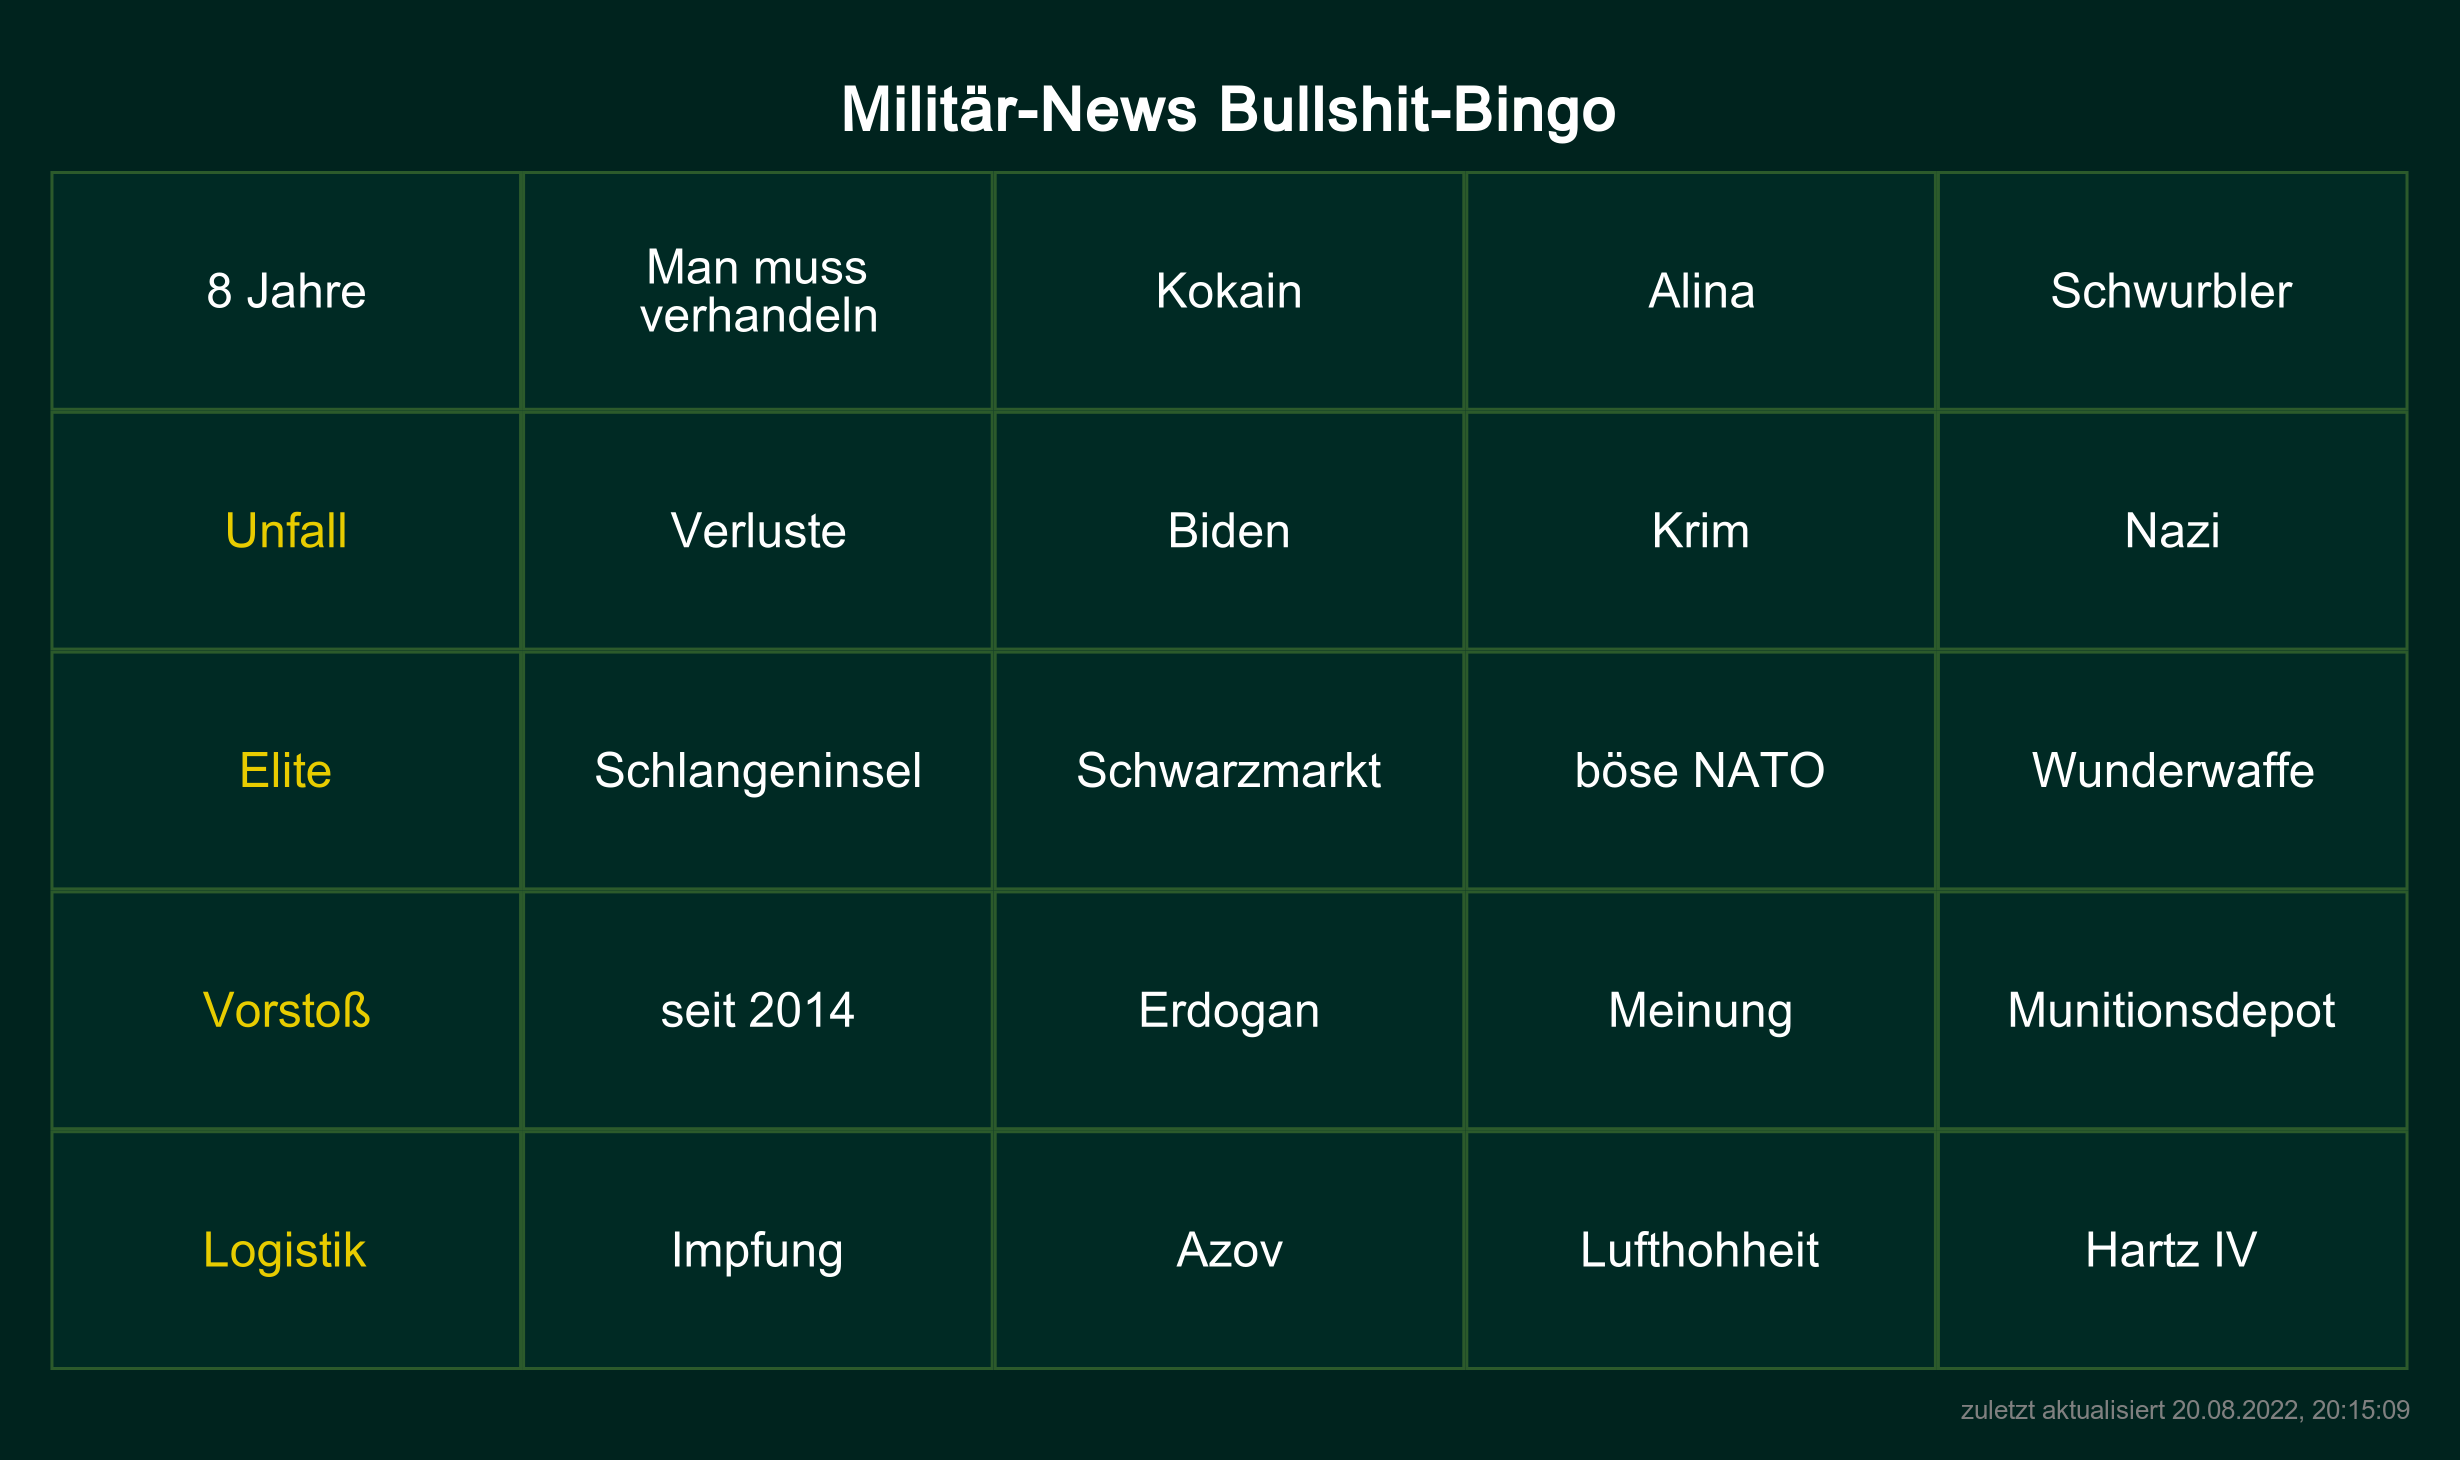
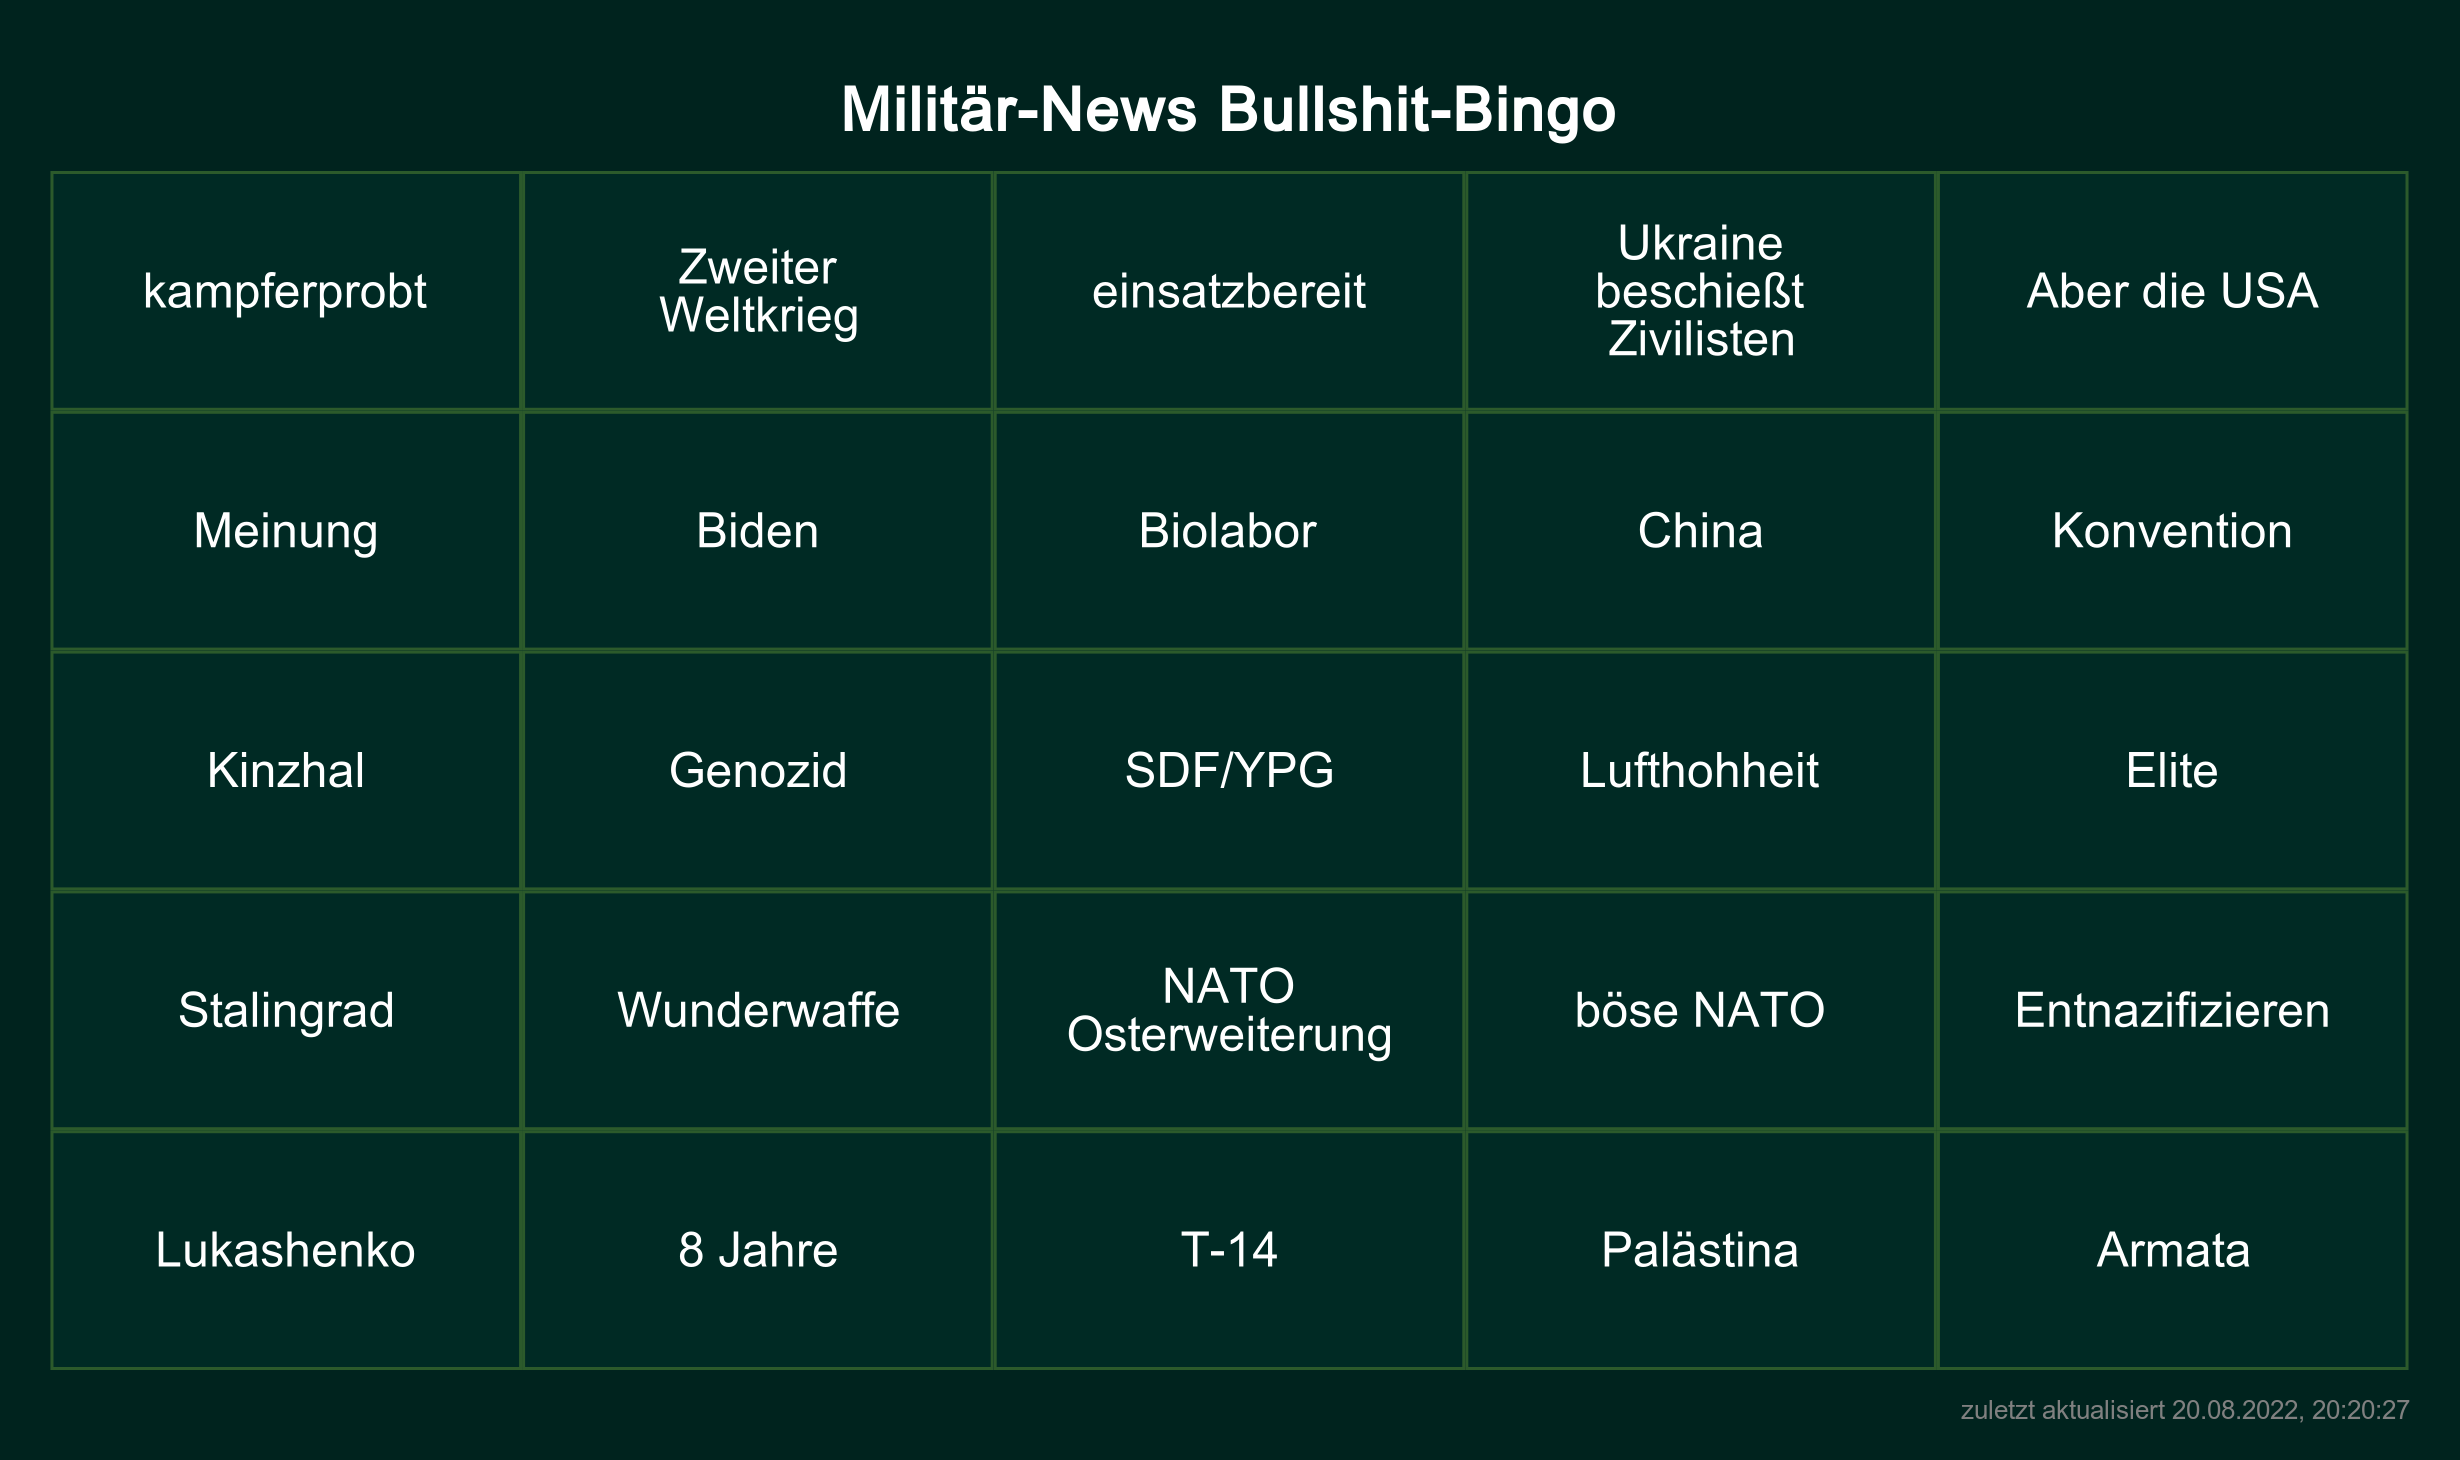
more bingo words

diff --git a/messages/bingo.py b/messages/bingo.py
@@ -87,7 +87,23 @@ ENTRIES = [
     "Elite",
     "8_Jahre",
     "Genozid",
-    "seit_2014"
+    "seit_2014",
+    "Irpin",
+    "Butcha",
+    "Klitschko",
+    "Chornobayivka",
+    "Butscha",
+    "Lipp",
+    "Ork",
+    "Belgorod",
+    "kapitulieren",
+    "aufgeben",
+    "Vakuumbomben",
+    "thermobarisch",
+    "sanktionieren",
+    "russophob",
+    "Eskalation",
+    "AKW"
 ]
 
 
